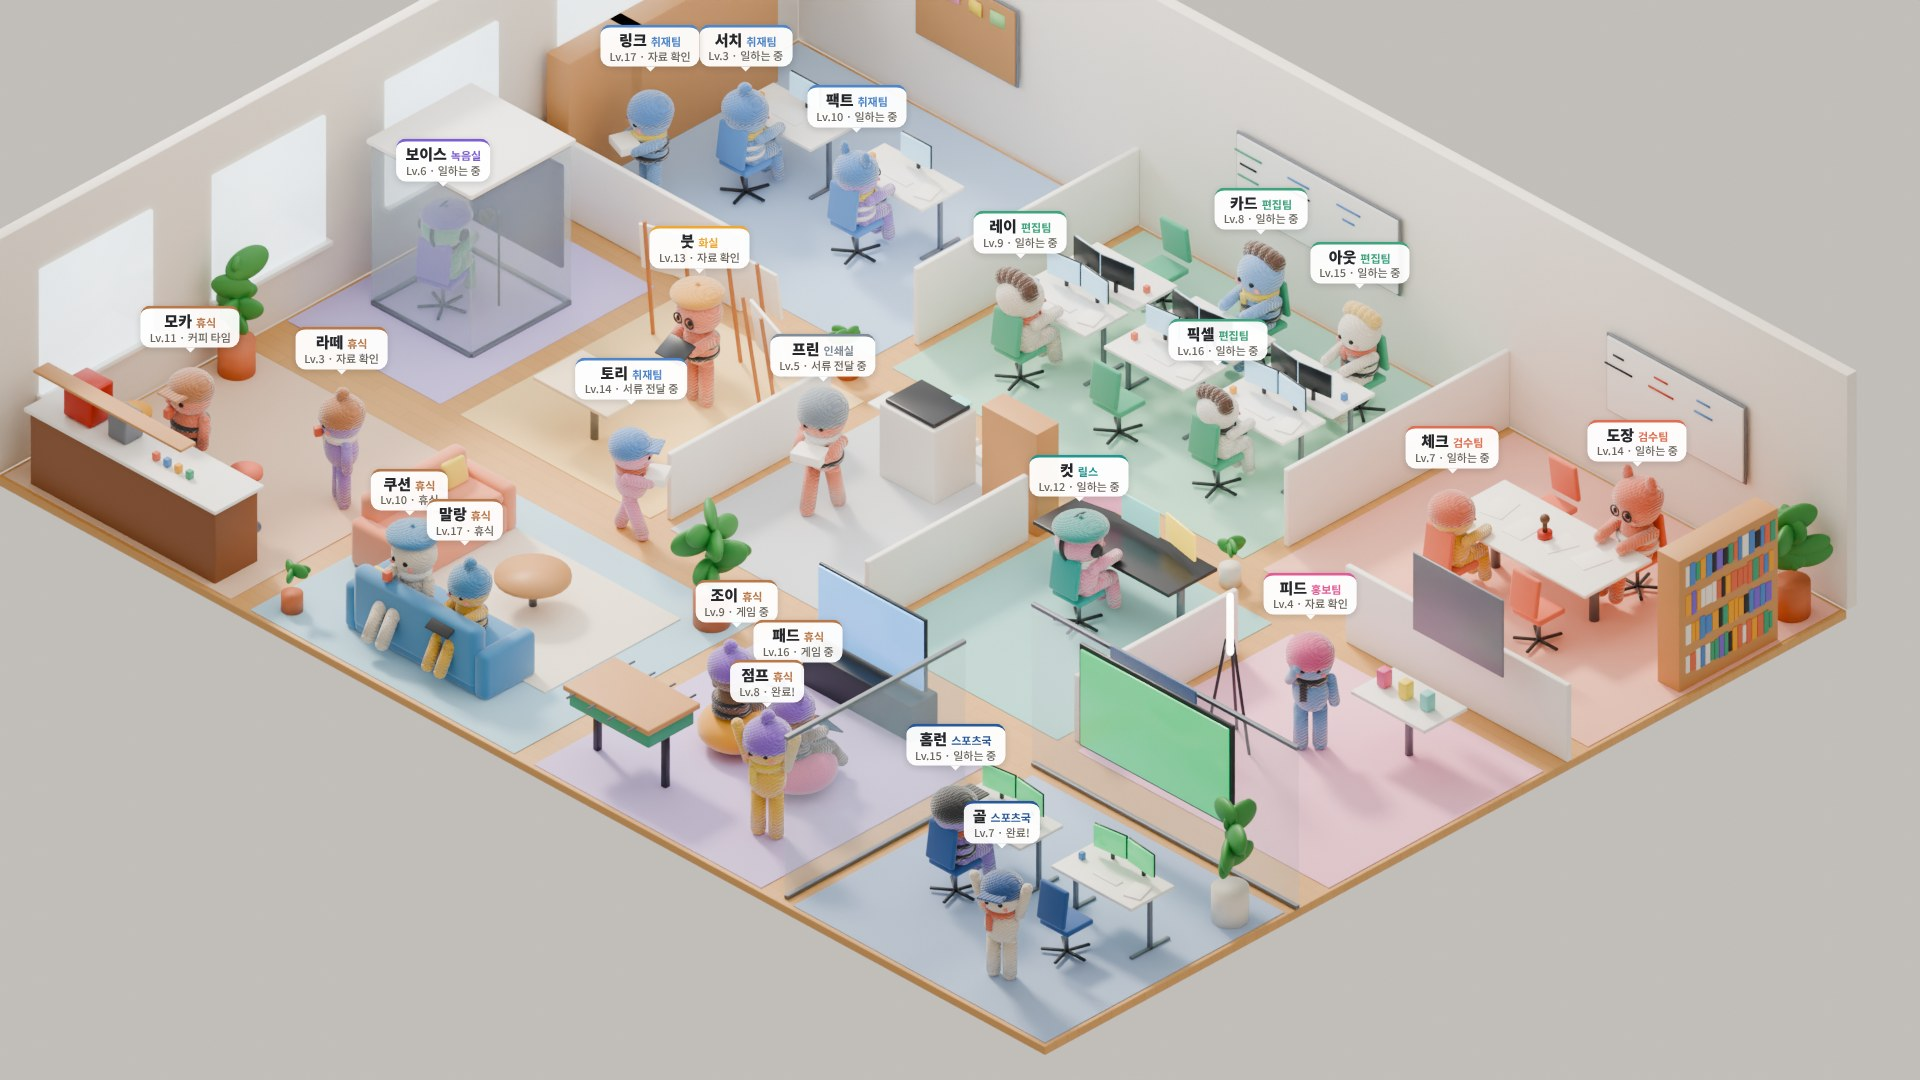
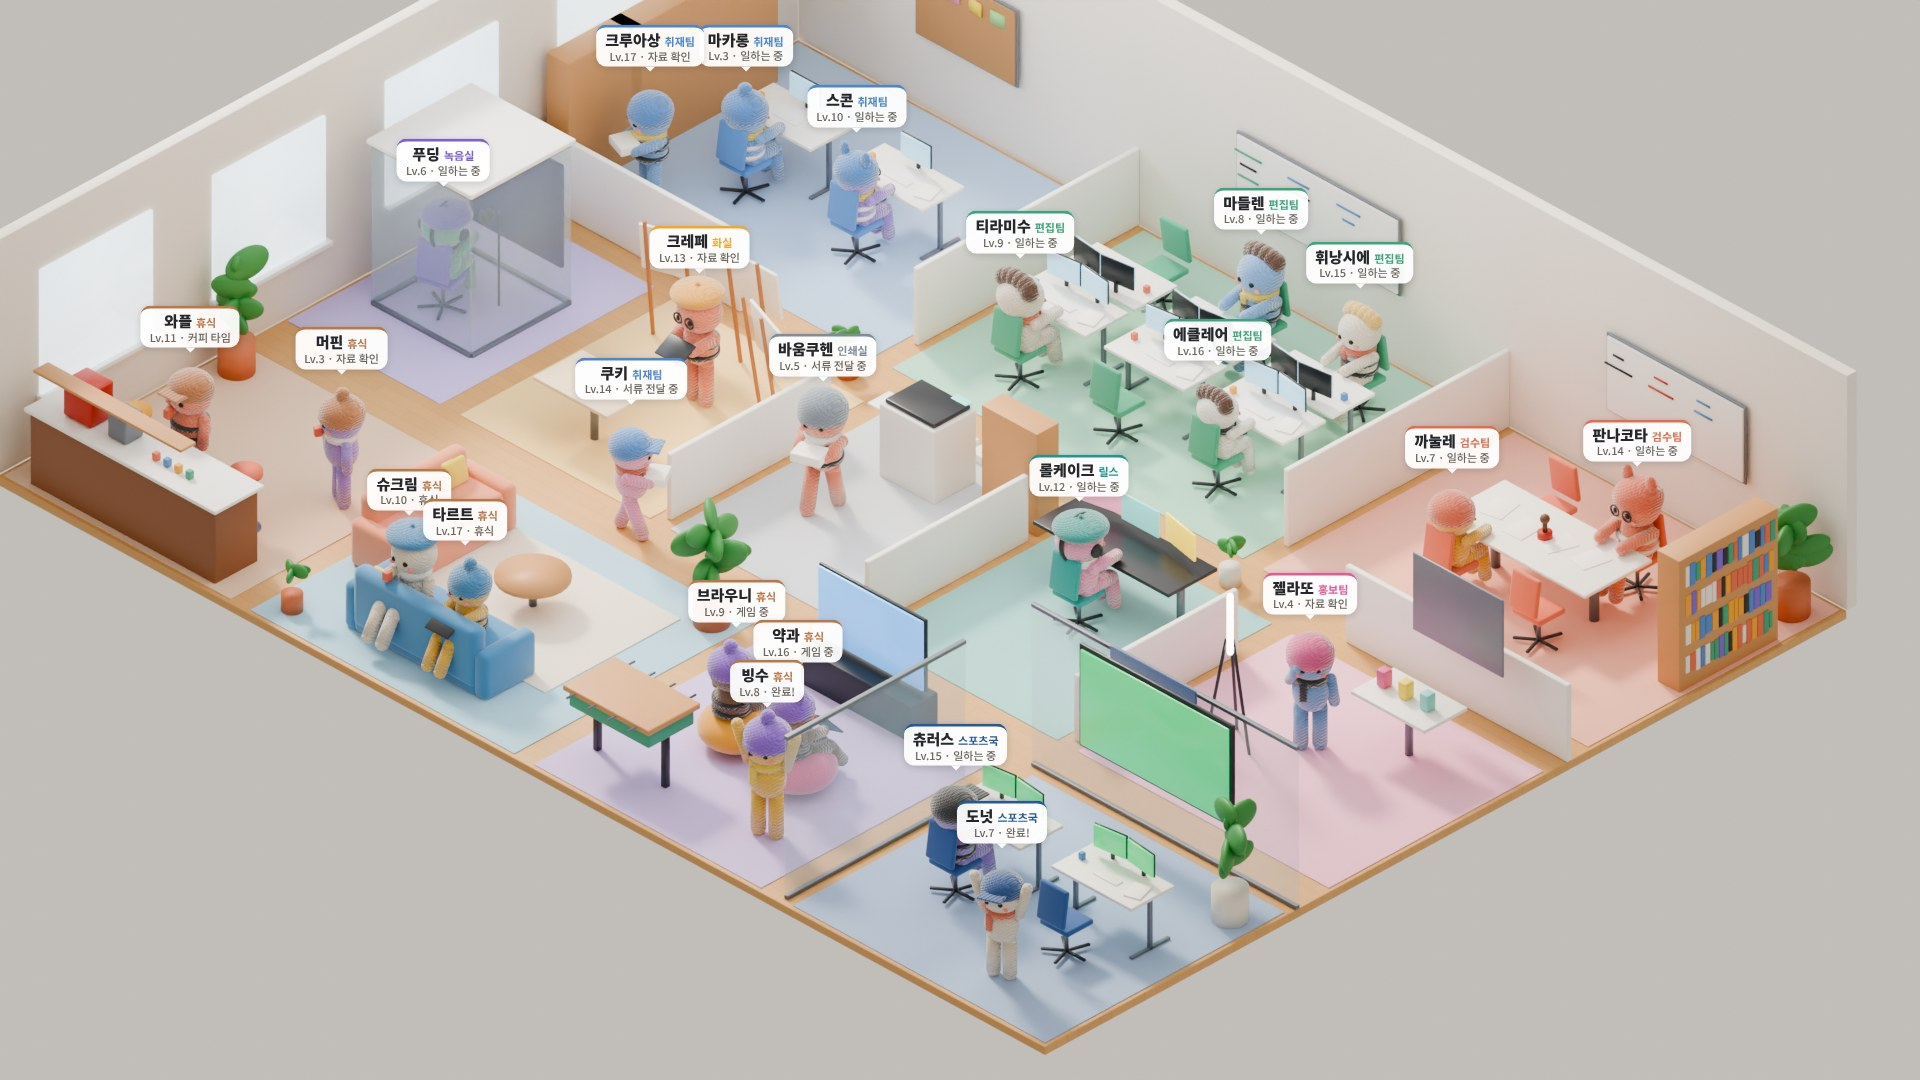
사무실 3D: 사원 이름을 디저트 이름으로(24명), 이름표 좌표 저장
Claude-Session: https://claude.ai/code/session_01A2vFmUg726k1K2HR9DbQ6X

diff --git a/office/blender/office2.py b/office/blender/office2.py
@@ -319,9 +319,9 @@ def doll(x, y, rot, pose="sit", body="#e8dccb", hat="beanie", hatc="#4f86c9", sc
 BODIES = ["#e8dccb", "#f2c14e", "#7aa7dd", "#ee8b6e", "#6cc39d", "#a888e0", "#f39ac0", "#8a6a52", "#46566a", "#f4f1ea"]
 HATS = ["beanie", "pom", "beret", "cap", "ears", "hair"]
 LABELS = []
-NAMES = {"research": ["서치", "팩트", "링크"], "edit": ["레이", "픽셀", "카드", "아웃"], "review": ["체크", "도장"], "voice": ["보이스"],
-         "art": ["붓"], "print": ["프린"], "reel": ["컷"], "pr": ["피드"], "sports": ["홈런", "골"]}
-REST = ["모카", "라떼", "쿠션", "말랑", "조이", "패드", "점프"]
+NAMES = {"research": ["마카롱", "스콘", "크루아상", "쿠키"], "edit": ["티라미수", "에클레어", "마들렌", "휘낭시에"], "review": ["까눌레", "판나코타"],
+         "voice": ["푸딩"], "art": ["크레페"], "print": ["바움쿠헨"], "reel": ["롤케이크"], "pr": ["젤라또"], "sports": ["츄러스", "도넛"]}
+REST = ["와플", "머핀", "슈크림", "타르트", "브라우니", "약과", "빙수"]
 def person(x, y, rot, team, pose="sit", **kw):
     key = team if team in NAMES else "rest"
     pool = NAMES.get(key) if key != "rest" else REST
